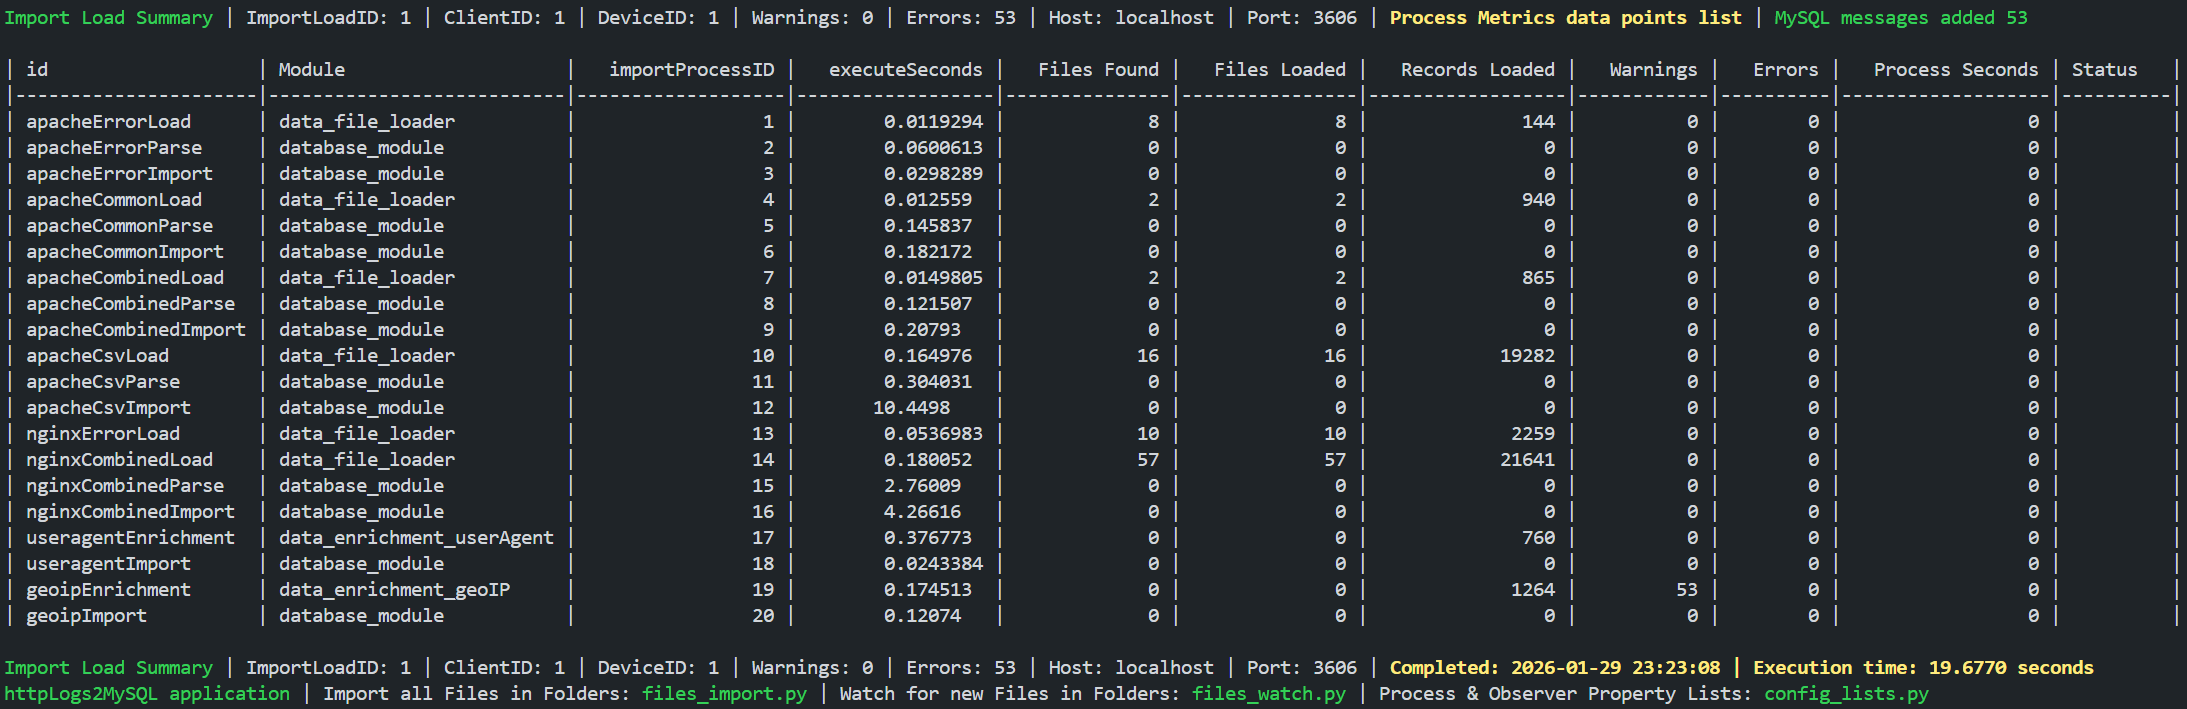
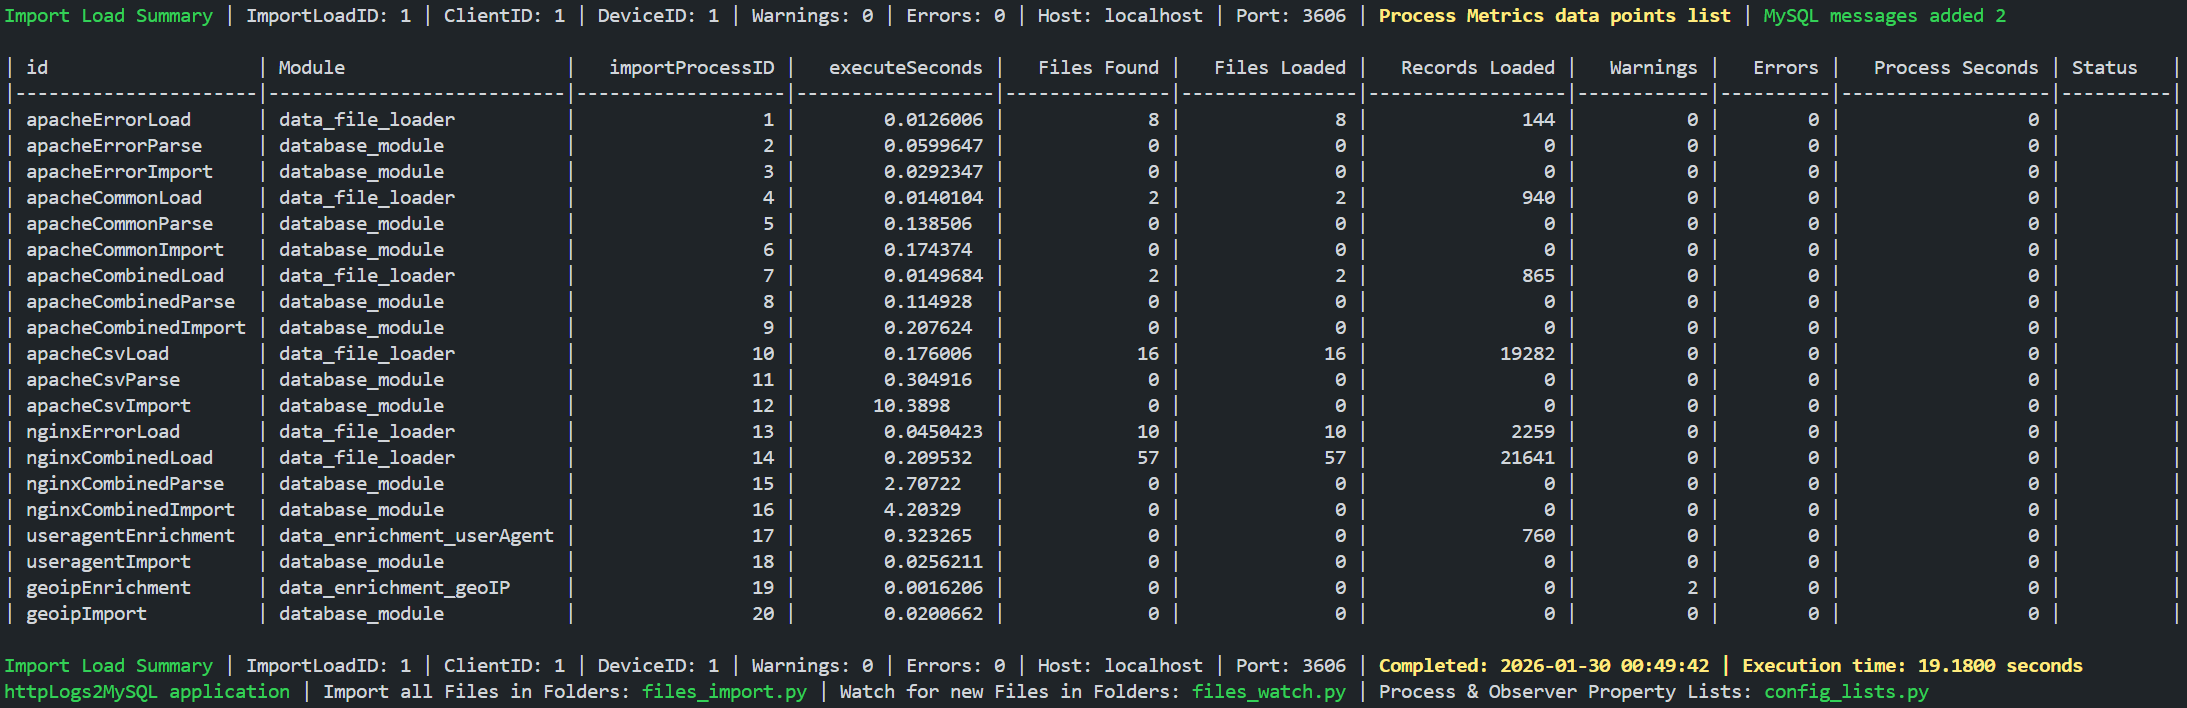
error to message logging done
change to database and python went smooth. much better. Also added warning_count to process and app. Fixed error handling of missing GeoIP database. Now if database is not in /data/downloads/ a record is inserted into import_message table. added image of import_message TABLE with 3 records. If you did not download GeoIP database this is what you should get.

diff --git a/src/import_processes/data_enrichment_geoIP.py b/src/import_processes/data_enrichment_geoIP.py
@@ -63,12 +63,12 @@ def process(parms):
     if not path.exists(geoip_city_file):
         geoip_city_file_exists = False
         mod.warning_count += 1
-        add_message( 0, {e}, {__name__}, {type(e).__name__},  e)
+        add_message( 6, f"GeoIP City database {geoip_city_file} not found", "Missing GeoIP")
 
     if not path.exists(geoip_asn_file):
         geoip_asn_file_exists = False
         mod.warning_count += 1
-        add_message( 0, {e}, {__name__}, {type(e).__name__},  e)
+        add_message( 7, f"GeoIP ASN database {geoip_city_file} not found", "Missing GeoIP")
 
     if geoip_city_file_exists and geoip_asn_file_exists:
 
@@ -80,21 +80,21 @@ def process(parms):
 
         except Exception as e:
             mod.warning_count += 1
-            add_message( 0, {e}, {__name__}, {type(e).__name__},  e)
+            add_message( 2, {e}, {__name__}, {type(e).__name__},  e)
 
         try:
             cityReader = geoip2.database.Reader(geoip_city_file)
 
         except Exception as e:
             mod.warning_count += 1
-            add_message( 0, {e}, {__name__}, {type(e).__name__},  e)
+            add_message( 3, {e}, {__name__}, {type(e).__name__},  e)
 
         try:
             asnReader = geoip2.database.Reader(geoip_asn_file)
 
         except Exception as e:
             mod.warning_count += 1
-            add_message( 0, {e}, {__name__}, {type(e).__name__},  e)
+            add_message( 4, {e}, {__name__}, {type(e).__name__},  e)
 
         for x in range(selectCursor.rowcount):
             mod.records_processed += 1

diff --git a/src/main.py b/src/main.py
@@ -100,10 +100,10 @@ if config:
     # Option 2 - pymysql_json.py uses config.json file for connection settings
     from src.database.pymysql_json import get_connection
 
-def update_importProcess(data):
+def update_import_process(data):
 
     # update import_process record ID = app.importProcessID
-    if data.get("ProcessErrors") == 0: 
+    if data.get("process_errors") == 0: 
        """ update import_process.completed = now() """
 
     #print(f"UPDATE import_process with {data} where id = {app.importProcessID}")
@@ -140,8 +140,9 @@ def execute_process(process):
                 app.executeSeconds = perf_counter() - app.executeStart
 
                 # print(data)
-        
-                update_importProcess(data)
+
+                # method to call TABLE UPDATE - 
+                #update_import_process(data)
 
                 # print(data)
                 # add import process information for summary report
@@ -166,7 +167,7 @@ def execute_process(process):
     except ValueError as e:
         add_message( 0, {e}, {__name__}, {type(e).__name__},  e)
 
-    except FileNotFoundError:
+    except FileNotFoundError as e:
         add_message( 0, {e}, {__name__}, {type(e).__name__},  e)
 
 def process_files(process_list=[]):

diff --git a/.github/README.md b/.github/README.md
@@ -66,6 +66,9 @@ Python naming convention fixes are done or close. `config.json` file structure c
 
 All processing stages (child processes) are encapsulated within one `main:process_files` (parent process) that captures process metrics, notifications and errors into database import tables.
 
+### Import Message Table - 2 Python records and 1 MySQL record
+![Message Table](./images/import_message_table.png)
+
 Every log data record is traceable back to the computer, path, file, load process, parse process and import process the data originates from.
 
 Python handles polling of log file folders and executing database LOAD DATA, Procedures, Functions and SQL Statements. List of Observers Watching:
